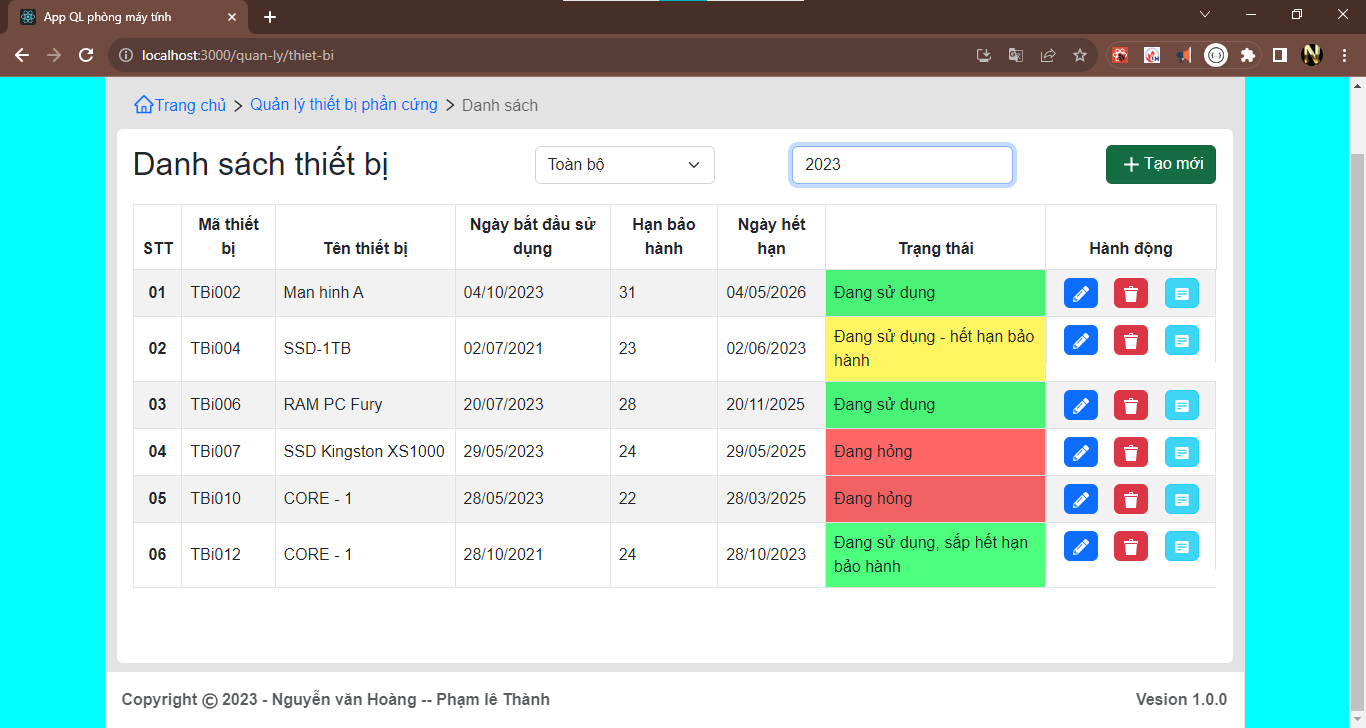
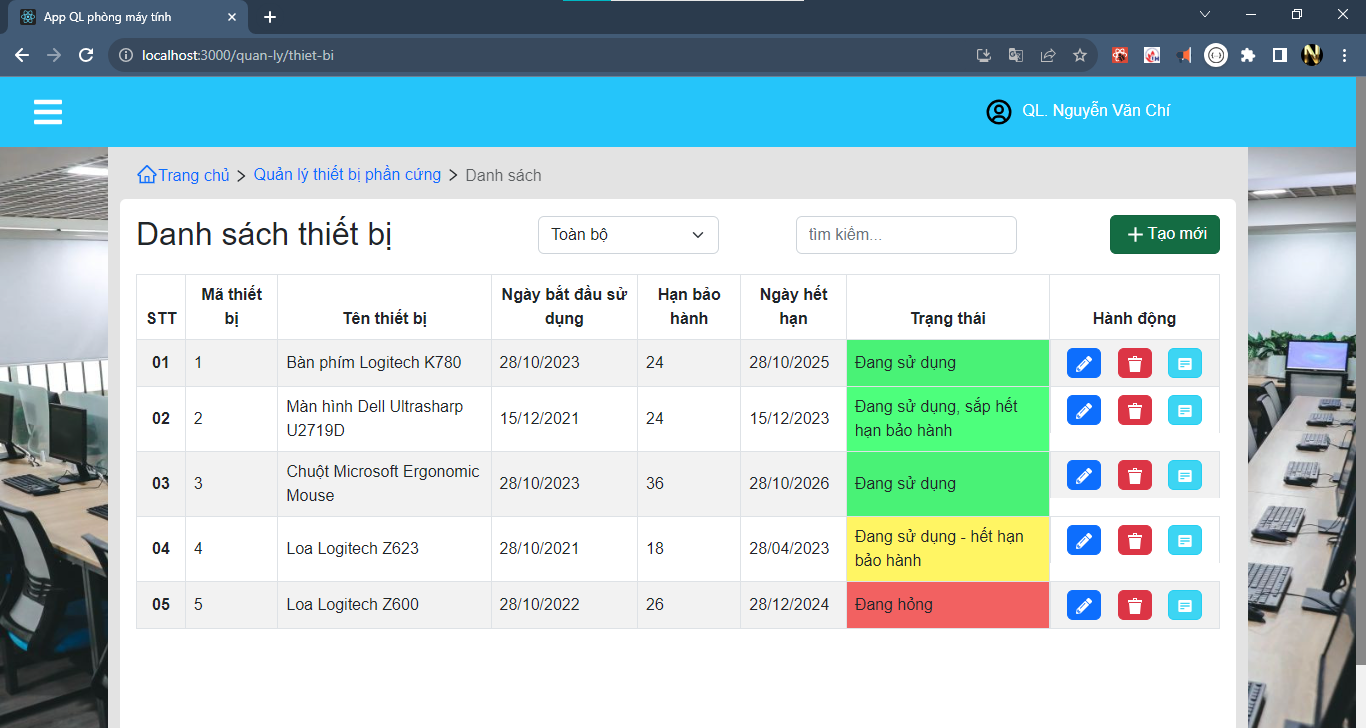
QLThietBI: finish data - api

diff --git a/src/redux/reducers/thietBiReducer.jsx b/src/redux/reducers/thietBiReducer.jsx
@@ -11,13 +11,13 @@ const searchData = (arrData, valSearch, valSelect) => {
 
   // search - text
   let arrUpdate = arrData.filter((item) => {
-    let ngaySD = new Date(item.ngaySuDung);
-    let ngayKT = new Date(item.ngaySuDung);
+    let ngaySD = new Date(item.ngayCaiDat);
+    let ngayKT = new Date(item.ngayCaiDat);
     ngayKT.setMonth(ngayKT.getMonth() + item.tuoiTho);
 
     return (
-      item.idCode.toLowerCase().includes(textSearch) ||
-      item.name.toLowerCase().includes(textSearch) ||
+      (item.maThietBi + "").toLowerCase().includes(textSearch) ||
+      item.tenThietBi.toLowerCase().includes(textSearch) ||
       // item.ngayBatDau.toLowerCase().includes(textSearch)  ||
       (item.tuoiTho + "").toLowerCase().includes(textSearch) ||
       formatStringDate(ngaySD).toLowerCase().includes(textSearch) ||
@@ -27,30 +27,32 @@ const searchData = (arrData, valSearch, valSelect) => {
 
   // search -- select
   let day = new Date();
+  
 
   if (valSelect == 1) {
     // bi hong
     arrUpdate = arrUpdate.filter((item) => {
-      return item.status === 0;
+      return item.status === false;
     });
   } else if (valSelect == 2) {
     // Đang sử dụng
     arrUpdate = arrUpdate.filter((item) => {
-      return item.status === 1;
+      return item.status === true;
     });
   } else if (valSelect == 3) {
     // het han
     arrUpdate = arrUpdate.filter((item) => {
-      let ngaySD = new Date(item.ngaySuDung);
-      let ngayKT = new Date(item.ngaySuDung);
+      let ngaySD = new Date(item.ngayCaiDat);
+      let ngayKT = new Date(item.ngayCaiDat);
+
       ngayKT.setMonth(ngayKT.getMonth() + item.tuoiTho);
 
-      return  ngayKT < day;
+      return  day > ngayKT;
     });
   } else if (valSelect == 4) {
     // sap het han
     arrUpdate = arrUpdate.filter((item) => {
-        let ngayKT = new Date(item.ngaySuDung);
+        let ngayKT = new Date(item.ngayCaiDat);
       ngayKT.setMonth(ngayKT.getMonth() + item.tuoiTho);
       let day2 = new Date(ngayKT);
       day2.setDate(day2.getDate() - 30); // day2 là tgian trước ngày kt 30 ngay

diff --git a/src/pages/PageQuanLy/PageQLThietBi.jsx b/src/pages/PageQuanLy/PageQLThietBi.jsx
@@ -33,8 +33,8 @@ export default function PageQLThietBi() {
   //render
   const renderDataThietBi = () => {
     return arrThietBiSearch?.map((item, index) => {
-      let ngaySD = new Date(item?.ngaySuDung);
-      let ngayKT = new Date(item?.ngaySuDung);
+      let ngaySD = new Date(item?.ngayCaiDat);
+      let ngayKT = new Date(item?.ngayCaiDat);
 
       ngayKT.setMonth(ngayKT.getMonth() + item?.tuoiTho);
 
@@ -69,8 +69,8 @@ export default function PageQLThietBi() {
           <td scope="row" style={{ fontWeight: 600, padding: "0 15px" }}>
             {index < 9 ? `0${index + 1}` : index + 1}
           </td>
-          <td>{item?.idCode}</td>
-          <td>{item?.name}</td>
+          <td>{item?.maThietBi}</td>
+          <td>{item?.tenThietBi}</td>
           <td>{formatStringDate(ngaySD)}</td>
           <td>{item?.tuoiTho}</td>
           <td>{formatStringDate(ngayKT)}</td>
